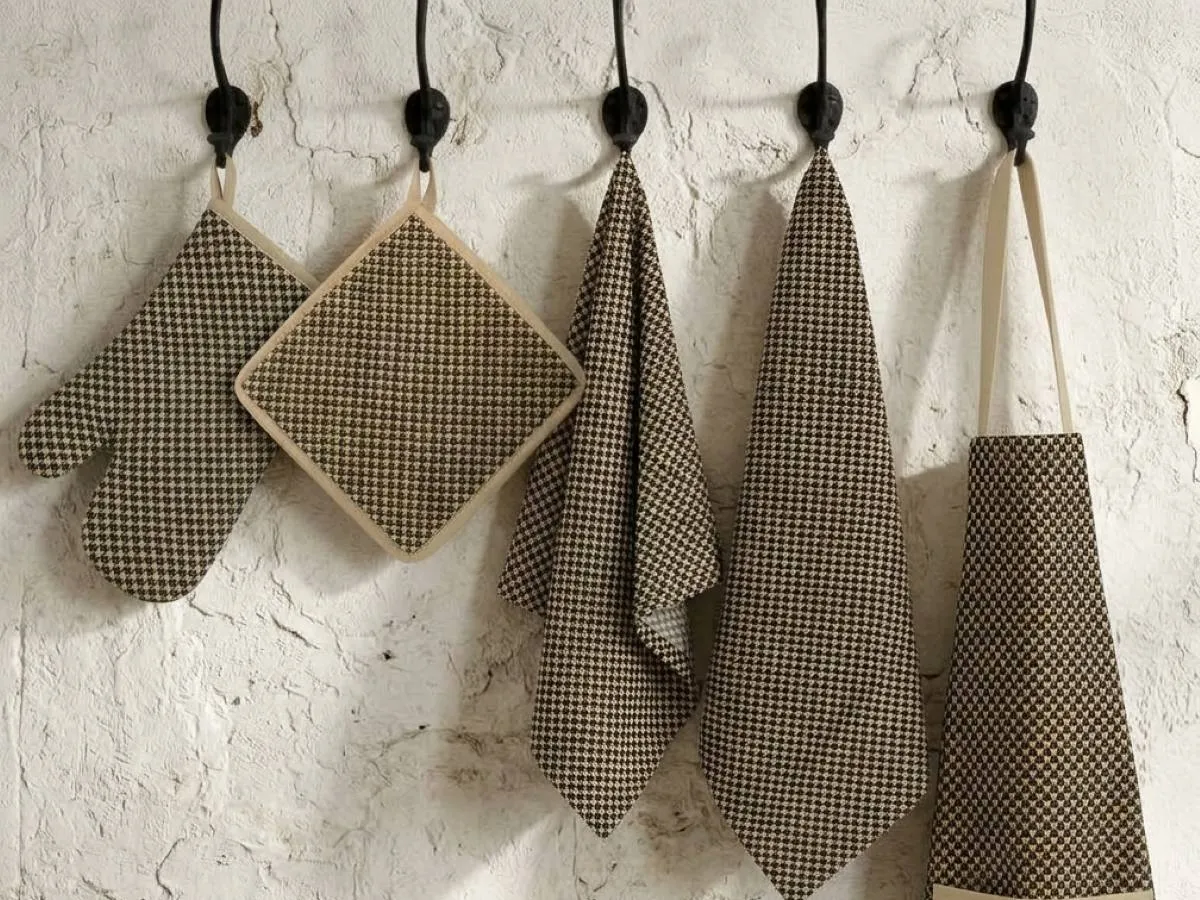
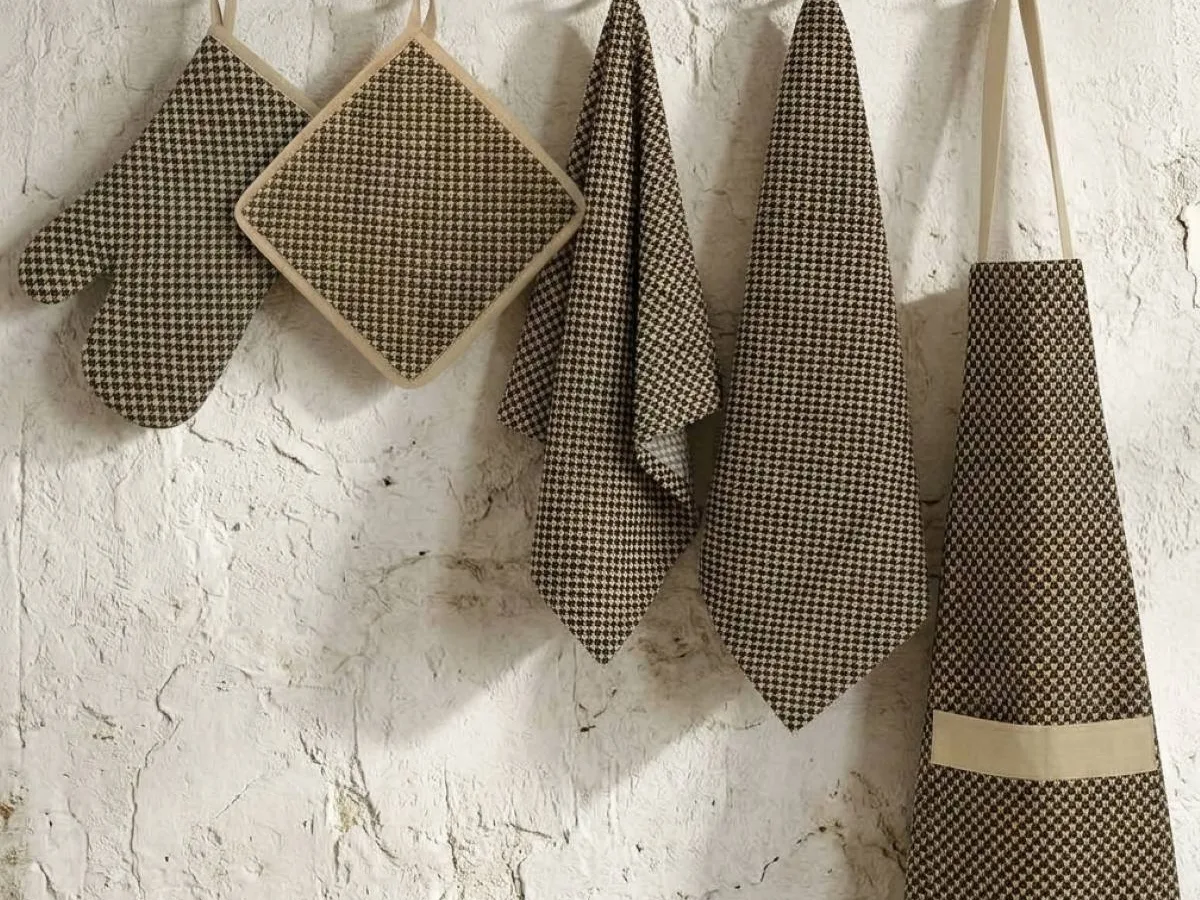
feat: replace apron and cushion images with client's 1200x900 set
Apron & Mitts and Cushions now show only the 19 client-supplied photos
(6 aprons, 13 cushions), converted to webp at 1200x900 and named after
the client's files. Older apron and floor cushion images are removed.

diff --git a/src/data/products.js b/src/data/products.js
@@ -39,50 +39,29 @@ import waffleKitchenTowel from '../assets/images/products/kitchen-dining/waffle-
 import classicStripedKitchenTowel from '../assets/images/products/kitchen-dining/classic-striped-kitchen-towel.webp'
 import themePrintedKitchenTowel from '../assets/images/products/kitchen-dining/theme-printed-kitchen-towel.webp'
 import vintagePlaidTeaTowel from '../assets/images/products/kitchen-dining/vintage-plaid-tea-towel.webp'
-import fabricDyedSet from '../assets/images/products/kitchen-dining/fabric-dyed-set.webp'
-import floralPrintedSet from '../assets/images/products/kitchen-dining/floral-printed-set.webp'
 import apronOvenMittsComboSet from '../assets/images/products/kitchen-dining/apron-oven-mitts-combo-set.webp'
-import traditionalCheckeredApron from '../assets/images/products/kitchen-dining/traditional-checkered-apron.webp'
-import blackCheckeredApron from '../assets/images/products/kitchen-dining/black-checkered-apron.webp'
-import blackCheckeredApron2 from '../assets/images/products/kitchen-dining/black-checkered-apron-2.webp'
-import blackApron from '../assets/images/products/kitchen-dining/black-apron.webp'
-import blackApron2 from '../assets/images/products/kitchen-dining/black-apron-2.webp'
-import brownCheckeredApron from '../assets/images/products/kitchen-dining/brown-checkered-apron.webp'
-import brownWhiteCheckeredApron from '../assets/images/products/kitchen-dining/brown-white-checkered-apron.webp'
-import greenCheckeredApron from '../assets/images/products/kitchen-dining/green-checkered-apron.webp'
-import oliveGreenCheckeredApron from '../assets/images/products/kitchen-dining/olive-green-checkered-apron.webp'
-import oliveGreenLinePatternApron from '../assets/images/products/kitchen-dining/olive-green-line-pattern-apron.webp'
-import orangeBoxPatternApron from '../assets/images/products/kitchen-dining/orange-box-pattern-apron.webp'
-import pistaGreenApron from '../assets/images/products/kitchen-dining/pista-green-apron.webp'
-import pistaGreenApron2 from '../assets/images/products/kitchen-dining/pista-green-apron-2.webp'
-import pistaGreenApron3 from '../assets/images/products/kitchen-dining/pista-green-apron-3.webp'
-import pistaGreenApron4 from '../assets/images/products/kitchen-dining/pista-green-apron-4.webp'
-import redBoxPatternApron from '../assets/images/products/kitchen-dining/red-box-pattern-apron.webp'
-import redBoxBlueLineApron from '../assets/images/products/kitchen-dining/red-box-blue-line-apron.webp'
-import redCheckeredApron from '../assets/images/products/kitchen-dining/red-checkered-apron.webp'
-import redFloralApron from '../assets/images/products/kitchen-dining/red-floral-apron.webp'
-import saffronApron from '../assets/images/products/kitchen-dining/saffron-apron.webp'
-import sandalApron from '../assets/images/products/kitchen-dining/sandal-apron.webp'
-import sandalRedFloralPocketApron from '../assets/images/products/kitchen-dining/sandal-red-floral-pocket-apron.webp'
-import whiteBlueLeafApron from '../assets/images/products/kitchen-dining/white-blue-leaf-apron.webp'
+import coordinatedKitchenSet from '../assets/images/products/kitchen-dining/coordinated-kitchen-set.webp'
+import coordinatedKitchenSet2 from '../assets/images/products/kitchen-dining/coordinated-kitchen-set-2.webp'
+import cottonApronCheckered from '../assets/images/products/kitchen-dining/cotton-apron-checkered.webp'
+import cottonApronCheckered2 from '../assets/images/products/kitchen-dining/cotton-apron-checkered-2.webp'
+import cottonApronCheckered3 from '../assets/images/products/kitchen-dining/cotton-apron-checkered-3.webp'
 import floralPrintedCurtains from '../assets/images/products/living-decor/floral-printed-curtains.webp'
 import leafPrintedCurtains from '../assets/images/products/living-decor/leaf-printed-curtains.webp'
 import printedCurtains from '../assets/images/products/living-decor/printed-curtains.webp'
 import stripeLinedCurtains from '../assets/images/products/living-decor/stripe-lined-curtains.webp'
 import curatedCushions from '../assets/images/products/living-decor/curated-cushions.webp'
-import embroideredTextCushions from '../assets/images/products/living-decor/embroidered-text-cushions.webp'
-import embroideredTextCushions2 from '../assets/images/products/living-decor/embroidered-text-cushions-2.webp'
+import decorativeCushion from '../assets/images/products/living-decor/decorative-cushion.webp'
+import embroideredTextCushion from '../assets/images/products/living-decor/embroidered-text-cushion.webp'
 import floorCushions from '../assets/images/products/living-decor/floor-cushions.webp'
-import floorCushions2 from '../assets/images/products/living-decor/floor-cushions-2.webp'
-import floorCushions3 from '../assets/images/products/living-decor/floor-cushions-3.webp'
-import jacquardCushions from '../assets/images/products/living-decor/jacquard-cushions.webp'
-import linenCushions from '../assets/images/products/living-decor/linen-cushions.webp'
-import patchworkCushions from '../assets/images/products/living-decor/patchwork-cushions.webp'
-import printedCushions from '../assets/images/products/living-decor/printed-cushions.webp'
-import statementCushions from '../assets/images/products/living-decor/statement-cushions.webp'
-import texturedCushions from '../assets/images/products/living-decor/textured-cushions.webp'
+import linenCushion from '../assets/images/products/living-decor/linen-cushion.webp'
+import luxuryTexturedCushionCover from '../assets/images/products/living-decor/luxury-textured-cushion-cover.webp'
+import patchWorkCushions from '../assets/images/products/living-decor/patch-work-cushions.webp'
+import printedCushion from '../assets/images/products/living-decor/printed-cushion.webp'
+import statementCushion from '../assets/images/products/living-decor/statement-cushion.webp'
+import texturedCushion from '../assets/images/products/living-decor/textured-cushion.webp'
+import wovenCushion from '../assets/images/products/living-decor/woven-cushion.webp'
 import wovenCushions from '../assets/images/products/living-decor/woven-cushions.webp'
-import yarnDyedCushions from '../assets/images/products/living-decor/yarn-dyed-cushions.webp'
+import yarnDyedCushion from '../assets/images/products/living-decor/yarn-dyed-cushion.webp'
 import shapedCushion from '../assets/images/products/kids-nursery/shaped-cushion.webp'
 import cushionToys from '../assets/images/products/kids-nursery/cushion-toys.webp'
 import shapeToys from '../assets/images/products/kids-nursery/shape-toys.webp'
@@ -162,34 +141,14 @@ export const PRODUCT_CATEGORIES = [
         name: 'Apron & Mitts',
         icon: 'oven_gen',
         description: 'Aprons, oven mitts and pot holders — sold singly or as coordinated sets — that pair practical padding with matching design.',
-        ...photo(fabricDyedSet),
+        ...photo(coordinatedKitchenSet2),
         children: [
-          { name: 'Fabric Dyed Set', ...photo(fabricDyedSet) },
-          { name: 'Floral Printed Set', ...photo(floralPrintedSet) },
           { name: 'Apron & Oven Mitts Combo Set', ...photo(apronOvenMittsComboSet) },
-          { name: 'Traditional Checkered Apron', ...photo(traditionalCheckeredApron) },
-          { name: 'Black Checkered Apron', ...photo(blackCheckeredApron) },
-          { name: 'Black Checkered Apron', ...photo(blackCheckeredApron2) },
-          { name: 'Black Apron', ...photo(blackApron) },
-          { name: 'Black Apron', ...photo(blackApron2) },
-          { name: 'Brown Checkered Apron', ...photo(brownCheckeredApron) },
-          { name: 'Brown & White Checkered Apron', ...photo(brownWhiteCheckeredApron) },
-          { name: 'Green Checkered Apron', ...photo(greenCheckeredApron) },
-          { name: 'Olive Green Checkered Apron', ...photo(oliveGreenCheckeredApron) },
-          { name: 'Olive Green Line Pattern Apron', ...photo(oliveGreenLinePatternApron) },
-          { name: 'Orange Box Pattern Apron', ...photo(orangeBoxPatternApron) },
-          { name: 'Pista Green Apron', ...photo(pistaGreenApron) },
-          { name: 'Pista Green Apron', ...photo(pistaGreenApron2) },
-          { name: 'Pista Green Apron', ...photo(pistaGreenApron3) },
-          { name: 'Pista Green Apron', ...photo(pistaGreenApron4) },
-          { name: 'Red Box Pattern Apron', ...photo(redBoxPatternApron) },
-          { name: 'Red Box with Blue Line Apron', ...photo(redBoxBlueLineApron) },
-          { name: 'Red Checkered Apron', ...photo(redCheckeredApron) },
-          { name: 'Red Floral Apron', ...photo(redFloralApron) },
-          { name: 'Saffron Apron', ...photo(saffronApron) },
-          { name: 'Sandal Apron', ...photo(sandalApron) },
-          { name: 'Sandal Apron with Red Floral Pocket', ...photo(sandalRedFloralPocketApron) },
-          { name: 'White with Blue Leaf Apron', ...photo(whiteBlueLeafApron) },
+          { name: 'Coordinated Kitchen Set', ...photo(coordinatedKitchenSet) },
+          { name: 'Coordinated Kitchen Set', ...photo(coordinatedKitchenSet2) },
+          { name: 'Cotton Apron Checkered', ...photo(cottonApronCheckered) },
+          { name: 'Cotton Apron Checkered', ...photo(cottonApronCheckered2) },
+          { name: 'Cotton Apron Checkered', ...photo(cottonApronCheckered3) },
         ],
       },
     ],
@@ -219,22 +178,21 @@ export const PRODUCT_CATEGORIES = [
         name: 'Cushions',
         icon: 'chair',
         description: 'Decorative cushion covers and fillers — printed, yarn-dyed, woven and embroidered — to accent any room.',
-        ...photo(printedCushions),
+        ...photo(printedCushion),
         children: [
           { name: 'Curated Cushions', ...photo(curatedCushions) },
-          { name: 'Embroidered & Text Cushions', ...photo(embroideredTextCushions) },
-          { name: 'Embroidered & Text Cushions', ...photo(embroideredTextCushions2) },
+          { name: 'Decorative Cushion', ...photo(decorativeCushion) },
+          { name: 'Embroidered & Text Cushion', ...photo(embroideredTextCushion) },
           { name: 'Floor Cushions', ...photo(floorCushions) },
-          { name: 'Floor Cushions', ...photo(floorCushions2) },
-          { name: 'Floor Cushions', ...photo(floorCushions3) },
-          { name: 'Jacquard Cushions', ...photo(jacquardCushions) },
-          { name: 'Linen Cushions', ...photo(linenCushions) },
-          { name: 'Patchwork Cushions', ...photo(patchworkCushions) },
-          { name: 'Printed Cushions', ...photo(printedCushions) },
-          { name: 'Statement Cushions', ...photo(statementCushions) },
-          { name: 'Textured Cushions', ...photo(texturedCushions) },
+          { name: 'Linen Cushion', ...photo(linenCushion) },
+          { name: 'Luxury Textured Cushion Cover', ...photo(luxuryTexturedCushionCover) },
+          { name: 'Patch Work Cushions', ...photo(patchWorkCushions) },
+          { name: 'Printed Cushion', ...photo(printedCushion) },
+          { name: 'Statement Cushion', ...photo(statementCushion) },
+          { name: 'Textured Cushion', ...photo(texturedCushion) },
+          { name: 'Woven Cushion', ...photo(wovenCushion) },
           { name: 'Woven Cushions', ...photo(wovenCushions) },
-          { name: 'Yarn Dyed Cushions', ...photo(yarnDyedCushions) },
+          { name: 'Yarn Dyed Cushion', ...photo(yarnDyedCushion) },
         ],
       },
       {
